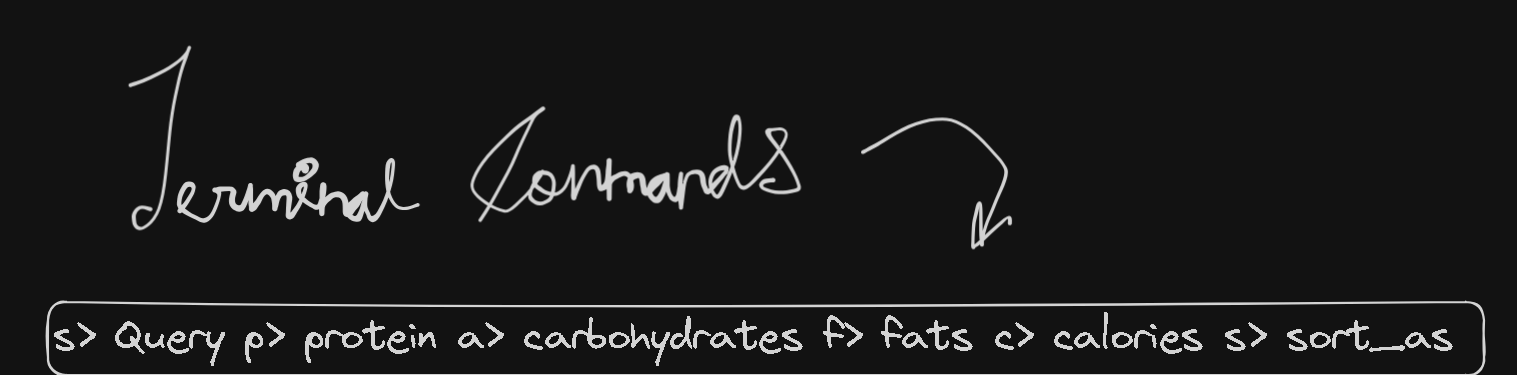
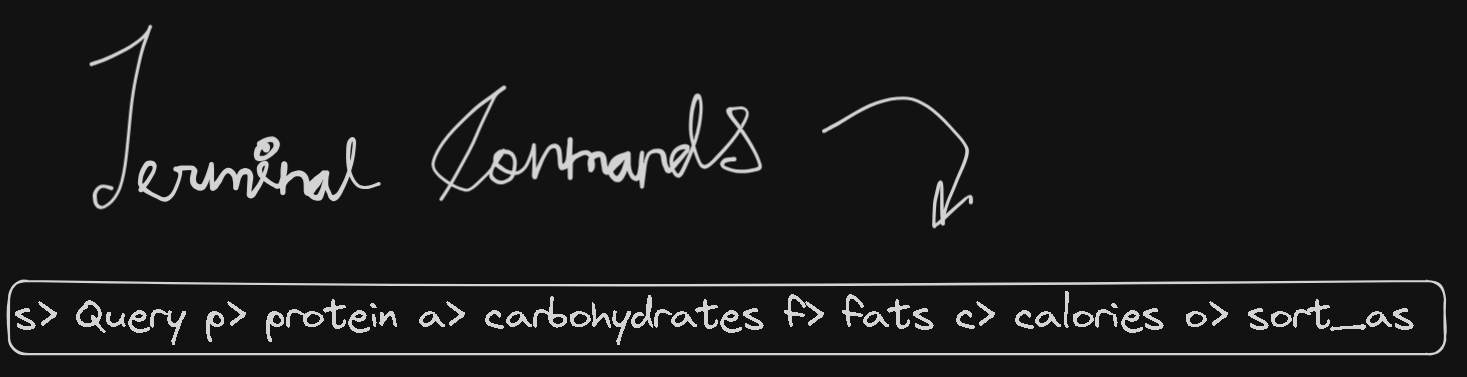
comit

diff --git a/modules/supportive_modules/disintegrator.py b/modules/supportive_modules/disintegrator.py
@@ -4,5 +4,23 @@ class break_input:
 
     def get(self):
         x = self.input
+        x = x.split('>')
         query = ''
-        
+        protein = ''
+        fats = ''
+        carbohydrates = ''
+        calories = ''
+        sort = ''
+
+        for i in range(x):
+            if x[i] == 's':
+                query = x[i+1]
+            elif x[i] == 'p':
+                protein = x[i+1]
+            elif x[i] == 'f':
+                fats = x[i+1]
+            elif x[i] == 'c':
+                calories = x[i+1]
+            elif x[i] == 'a':
+                carbohydrates = x[i+1]
+            e
